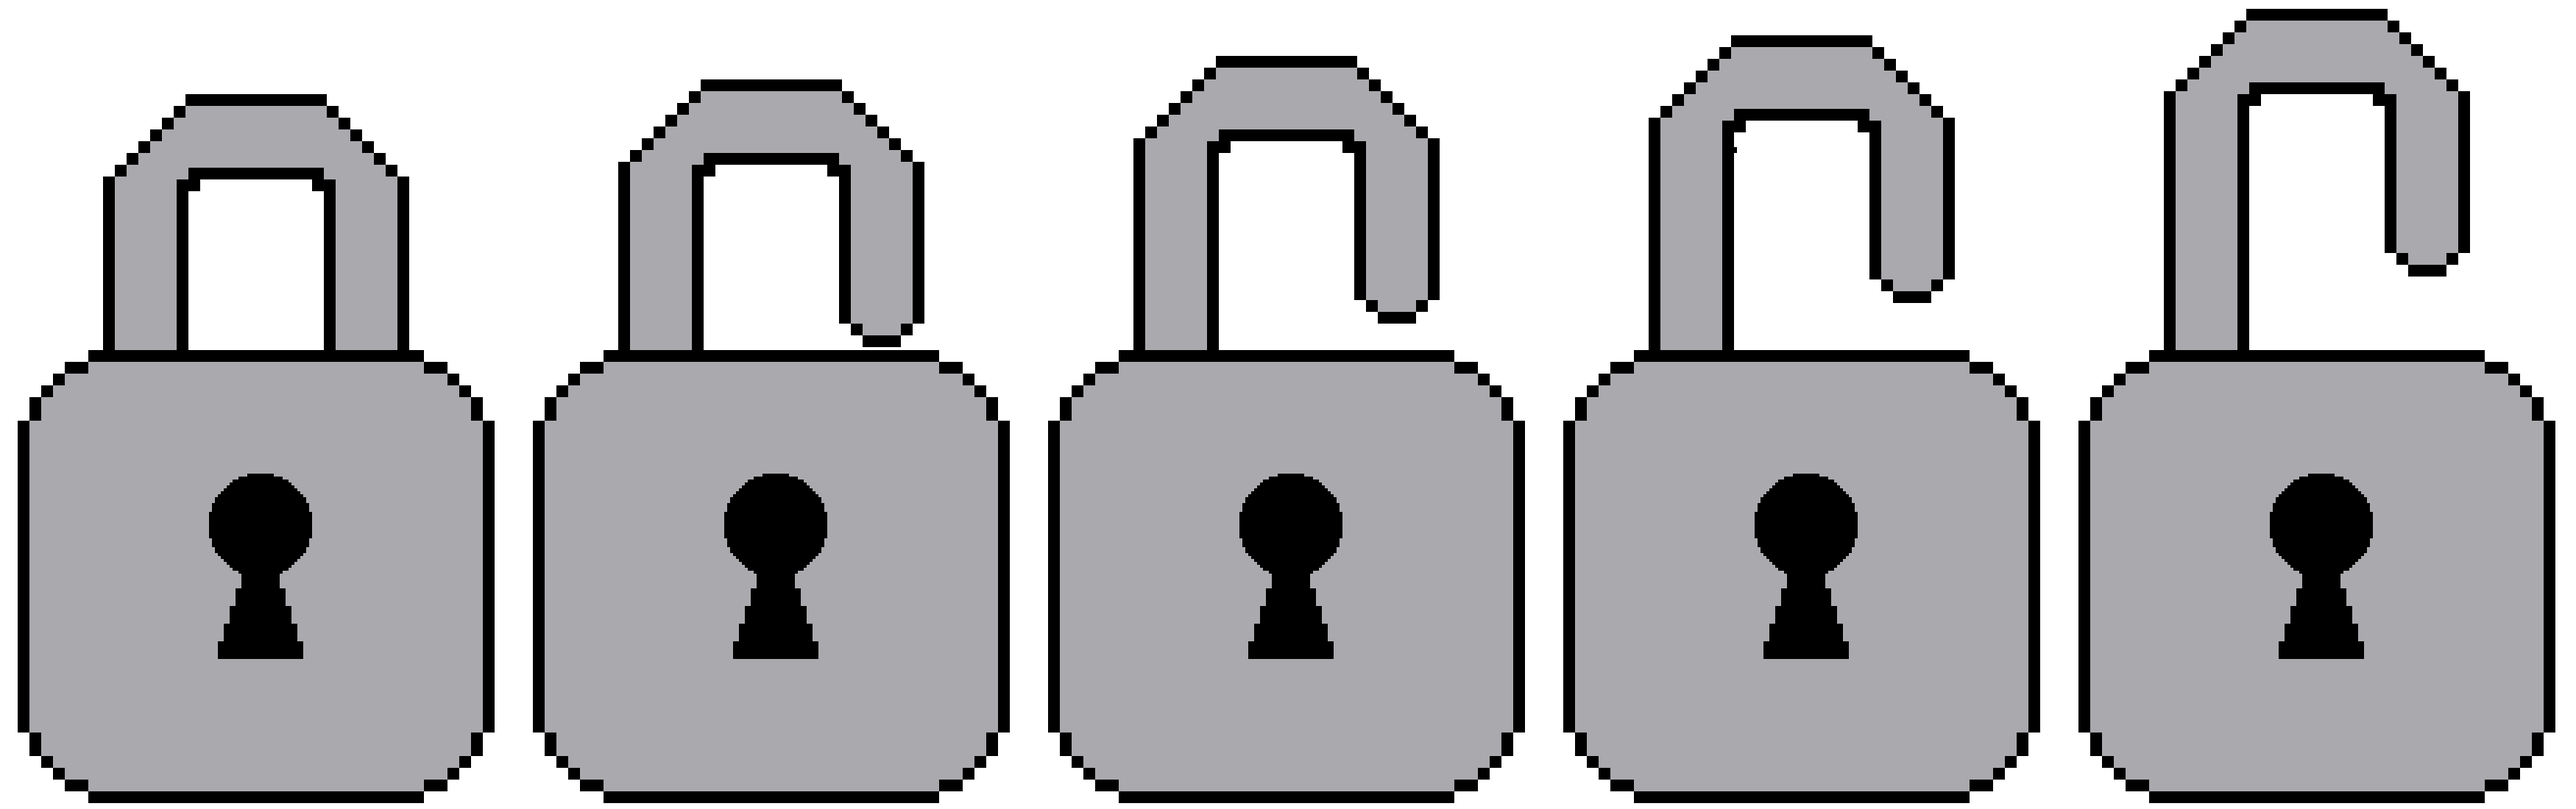
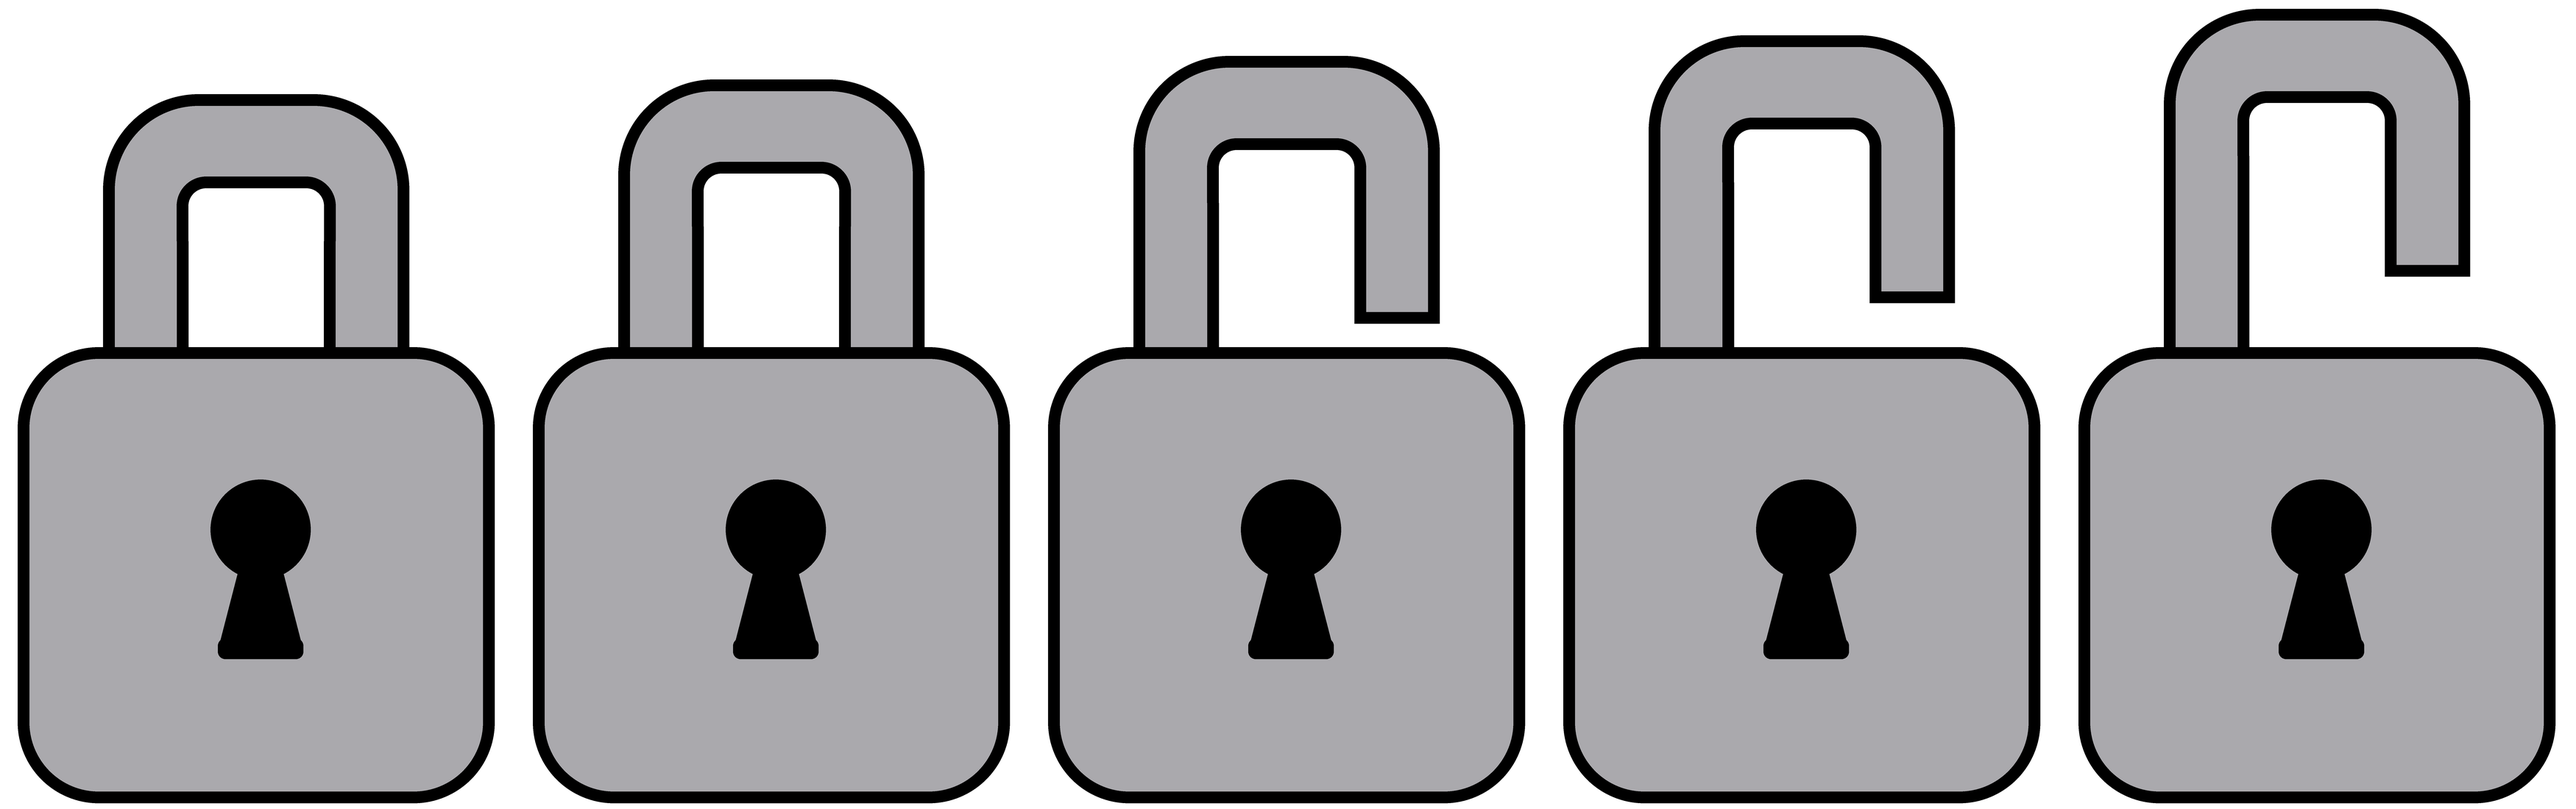
update lock sprites

diff --git a/src/scenes/play/tomes/TomeRow.ts b/src/scenes/play/tomes/TomeRow.ts
@@ -1,7 +1,7 @@
 import Phaser from 'phaser';
 import type { HelperDef, HelperSave } from '../../../types';
 import { formatNumber } from '../../../utils/format';
-import { fitInBox } from '../ui/fit';
+import { fitInBox, lockedEmblem } from '../ui/fit';
 import { darkText } from '../ui/textStyles';
 
 interface TomeRowConfig {
@@ -35,13 +35,12 @@ export function createTomeRow({
   const wellY = ((46 + 205) / 2 / 260) * boxH;
   const wellSize = innerW * (160 / 840);
   const avatarMax = wellSize - wellSize * 0.1 * 2;
-  const lockMax = avatarMax * (130 / 112);
   const avatarX = -innerW / 2 + wellX;
   const avatarY = -boxH / 2 + wellY;
   const emblemKey = `tome-${def.id}`;
   let avatar: Phaser.GameObjects.GameObject;
-  if (locked && scene.textures.exists('ui-lock')) {
-    avatar = fitInBox(scene, 'ui-lock', lockMax, lockMax).setPosition(avatarX, avatarY);
+  if (locked && scene.textures.exists(emblemKey)) {
+    avatar = lockedEmblem(scene, emblemKey, avatarMax).setPosition(avatarX, avatarY);
   } else if (scene.textures.exists(emblemKey)) {
     avatar = fitInBox(scene, emblemKey, avatarMax, avatarMax).setPosition(avatarX, avatarY);
   } else {

diff --git a/src/scenes/play/ui/fit.ts b/src/scenes/play/ui/fit.ts
@@ -15,3 +15,20 @@ export function fitInBox(
   img.setDisplaySize(Math.round(tw * scale), Math.round(th * scale));
   return img;
 }
+
+/** Locked well: emblem as a dark silhouette with a lock badge in the bottom-right corner. */
+export function lockedEmblem(
+  scene: Phaser.Scene,
+  key: string,
+  size: number,
+): Phaser.GameObjects.Container {
+  // Pixel-art lock: whole-number scale + nearest filtering keeps its edges sharp.
+  scene.textures.get('ui-lock').setFilter(Phaser.Textures.FilterMode.NEAREST);
+  const lock = scene.add.image(0, 0, 'ui-lock');
+  lock.setScale(Math.max(1, Math.round((size * 0.4) / lock.height)));
+  const offset = Math.round(size / 2 - lock.displayHeight * 0.6);
+  return scene.add.container(0, 0, [
+    fitInBox(scene, key, size, size).setTintFill(0x4a4038).setAlpha(0.85),
+    lock.setPosition(offset, offset),
+  ]);
+}

diff --git a/src/scenes/play/xal/ChapterCard.ts b/src/scenes/play/xal/ChapterCard.ts
@@ -1,6 +1,6 @@
 import Phaser from 'phaser';
 import type { ChapterDef } from '../../../types';
-import { fitInBox } from '../ui/fit';
+import { fitInBox, lockedEmblem } from '../ui/fit';
 import { darkText } from '../ui/textStyles';
 
 export const CHAPTER_CARD_H = 88;
@@ -45,7 +45,10 @@ export function renderChapterCard({
       cardW,
       CHAPTER_CARD_H,
     ),
-    fitInBox(scene, locked ? 'ui-lock' : 'ui-portal-nav', wellSize * 0.7, wellSize * 0.7).setPosition(
+    (locked
+      ? lockedEmblem(scene, 'ui-portal-nav', wellSize * 0.7)
+      : fitInBox(scene, 'ui-portal-nav', wellSize * 0.7, wellSize * 0.7)
+    ).setPosition(
       -cardW / 2 + wellX,
       -CHAPTER_CARD_H / 2 + wellY,
     ),
